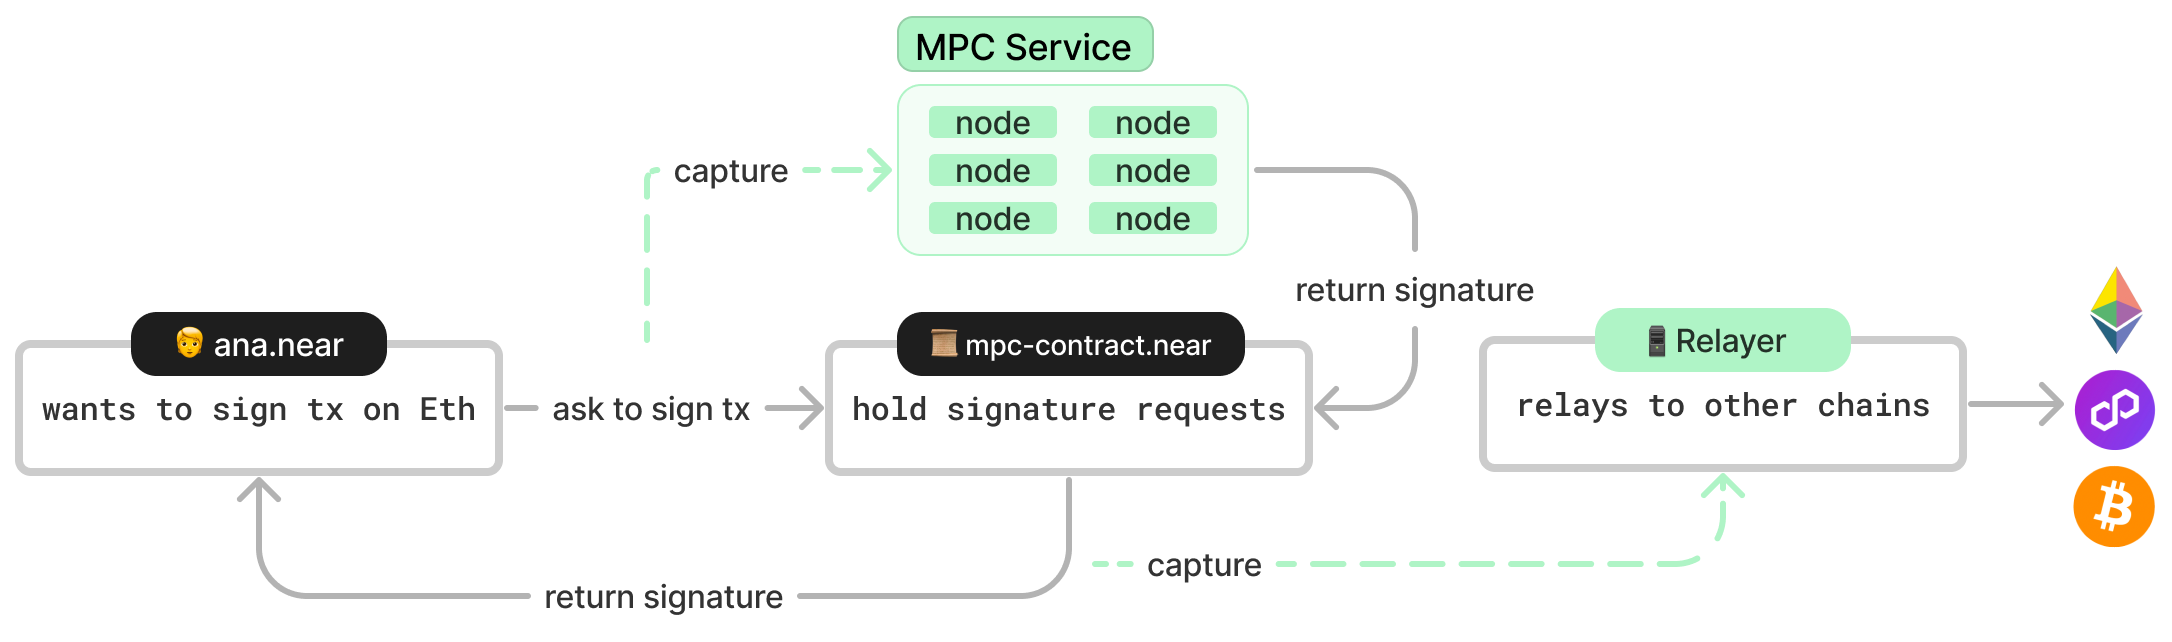
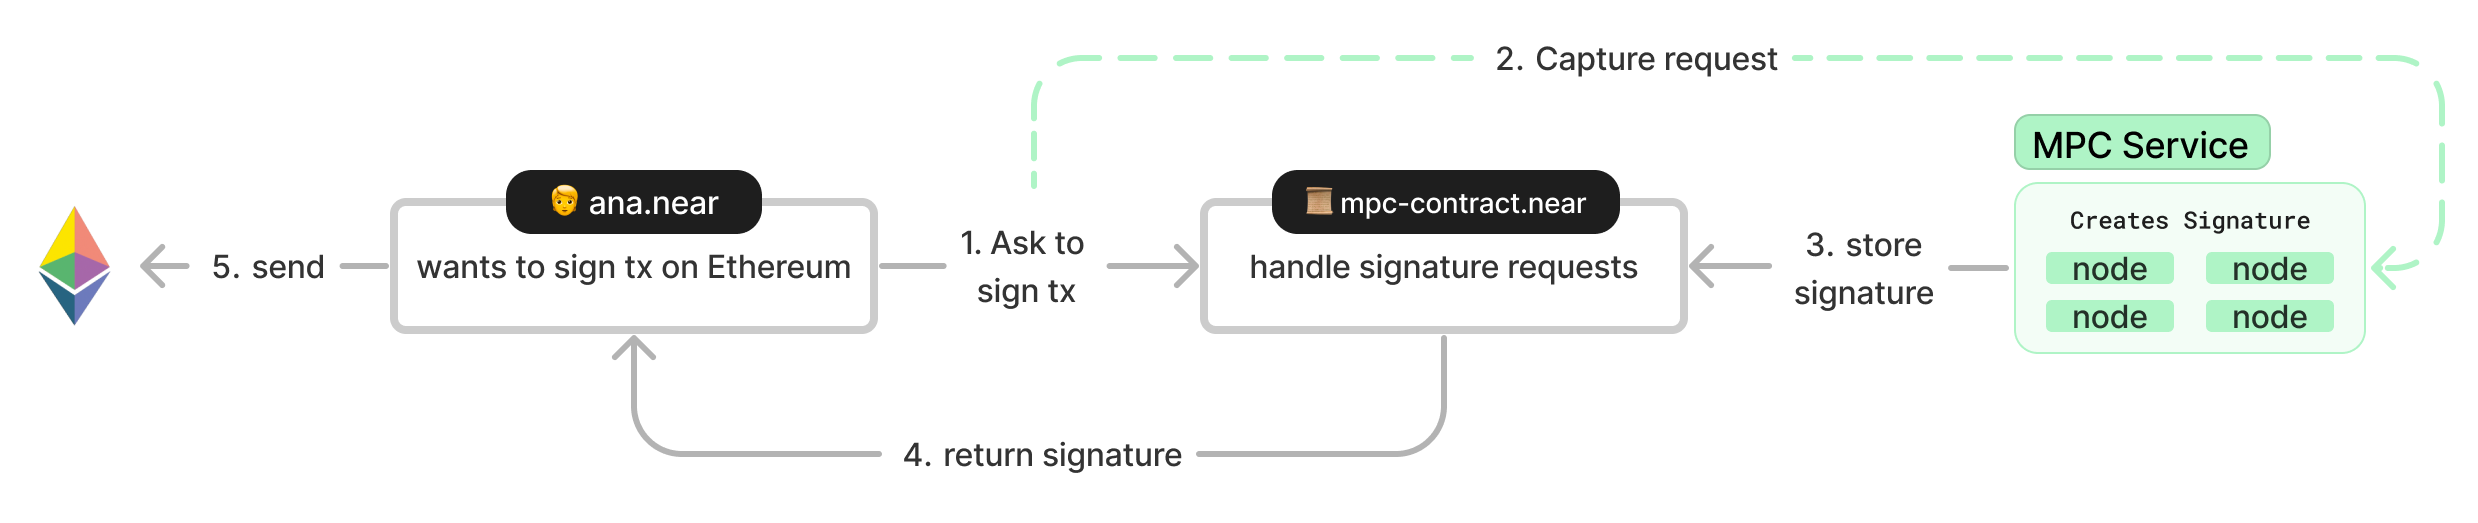
fix: small fixes

Changed region(s): [[0.0, 0.0, 1.0, 0.8566], [0.1234, 0.826, 0.802, 0.9484], [0.802, 0.2141, 0.9563, 0.3671]]

diff --git a/docs/1.concepts/abstraction/chain-signatures.md b/docs/1.concepts/abstraction/chain-signatures.md
@@ -7,7 +7,10 @@ sidebar_label: What are Chain Signatures?
 
 Chain signatures enable NEAR accounts, including smart contracts, to sign and execute transactions across many blockchain protocols.
 
-This unlocks the next level of blockchain interoperability by giving ownership of diverse assets, cross-chain accounts, and data to a single NEAR account.
+This unlocks the next level of blockchain interoperability by giving ownership of diverse assets, cross-chain accounts, and data to every single NEAR account.
+
+![chain-signatures](/docs/assets/welcome-pages/chain-signatures-overview.png)
+_Diagram of a chain signature in NEAR_
 
 :::info Looking for code?
 To get started using Chain Signatures in your project see **[Create a Chain Signature](../../8.abstraction/chain-signatures.md)**.
@@ -23,7 +26,7 @@ This technology is currently in `alpha` and should only be used in a `testnet` e
 
 Controlling accounts and their assets on other blockchain platforms is made possible thanks to the interaction between three elements:
 
-1. [**Derivation Paths**](#derivation-paths-one-account-multiple-chains) - A deterministic way to derive multiple addresses from one NEAR account
+1. [**Derivation Paths**](#derivation-paths-one-account-multiple-chains) - A deterministic way to derive foreign addresses from one NEAR account
 2. [**Multichain Smart Contract**](#multichain-smart-contract) - Receives requests to sign a transaction for other blockchains
 3. [**Multiparty Computation Service**](#multi-party-computation-service) Third-party service providing signatures to the contract
 
@@ -31,22 +34,24 @@ Controlling accounts and their assets on other blockchain platforms is made poss
 
 ### Derivation Paths: One Account, Multiple Chains
 
-Chain Signatures link NEAR accounts to other blockchain accounts using [Additive Key Derivation](https://eprint.iacr.org/2021/1330#:~:text=Additive%20key%20derivation%20is%20a,Improvement%20Proposal%2032%20(BIP32)) _(a simple mechanism for deriving many subkeys from a single master key)_. These keys are generated using `derivation paths` _(or `paths` for short)_.
+Chain Signatures link NEAR accounts to addresses in other blockchain using [Additive Key Derivation](https://eprint.iacr.org/2021/1330) (a simple mechanism for deriving many subkeys from a single master key). These keys are generated using `derivation paths` (or `paths` for short).
 
-A `derivation path` is simply a string _(e.g. `ethereum-1`, `ethereum-2`, etc)_ that in conjunction with the NEAR account derives a unique address on the target blockchain.
+A `derivation path` is simply a string (e.g. `ethereum-1`, `ethereum-2`, etc) that in conjunction with the NEAR account derives a unique address on the target blockchain.
 
-For example, we can derive multiple Ethereum accounts from `example.near` by using different paths:
+For example, we can derive multiple Ethereum addresses from `example.near` by using different paths:
 
   1. `example.near` + `ethereum-1` = `0x1b48b83a308ea4beb845db088180dc3389f8aa3b`
   2. `example.near` + `ethereum-2` = `0x99c5d3025dc736541f2d97c3ef3c90de4d221315`
   3. `example.near` + `...` = `0x...`
 
-This external address is deterministically derived using the `path` (`example.near` + `ethereum-1`) and the MPC service's public key.
+It is important to note that this allows us to discover the **public address** of the foreign account that we can control. To actually control the foreign account, we need to request signatures from the MPC service.
+
+:::tip
+In practice, the external address is deterministically derived using the NEAR address (`example.near`), the path (`ethereum-1`) and the MPC service's public key
+:::
 
 :::info
-
 See [**Create a Chain Signature - how the derivation is implemented**](../../8.abstraction/chain-signatures.md#1-deriving-the-foreign-address) for an example implementation
-
 :::
 
 <hr class="subsection" />
@@ -76,9 +81,7 @@ NEAR smart contracts are unable to halt execution and await the completion of a 
 </details>
 
 :::info
-
 See [**Create a Chain Signature - requesting the signature**](../../8.abstraction/chain-signatures.md#3-requesting-the-signature) for an example implementation
-
 :::
 
 <hr class="subsection" />
@@ -89,22 +92,19 @@ The essence of Multi-Party Computation (MPC) is to enable independent parties to
 
 NEAR's MPC service is comprised of several independent nodes, **none of which can sign by itself**, but instead create **signature-shares** that are **aggregated through multiple rounds** to **jointly** sign a transaction.
 
-This service continuously listens for signature requests _(i.e. users calling the `sign` method on the `multichain` smart contract)_ and when a call is detected the MPC service:
+This service continuously listens for signature requests (i.e. users calling the `sign` method on the `multichain` smart contract) and when a call is detected the MPC service:
 
   1. Asks its nodes to jointly derive a signature for the `payload` using the account identified by the `path`
   2. Once complete, call the `multichain` contract to store the resulting `Signature`
 
 :::info A Custom MPC Service
-
 Generally, MPC signing services work by sharing a master key, which needs to be re-created each time a node joins or leaves.
 
 NEAR's MPC service allows for nodes to safely join and leave, without needing to re-derive a master key
 :::
 
 :::tip
-
 Want to learn more about the mathematics that enable MPC? [**Check this awesome article**](https://www.zellic.io/blog/mpc-from-scratch/)
-
 :::
 
 ---
